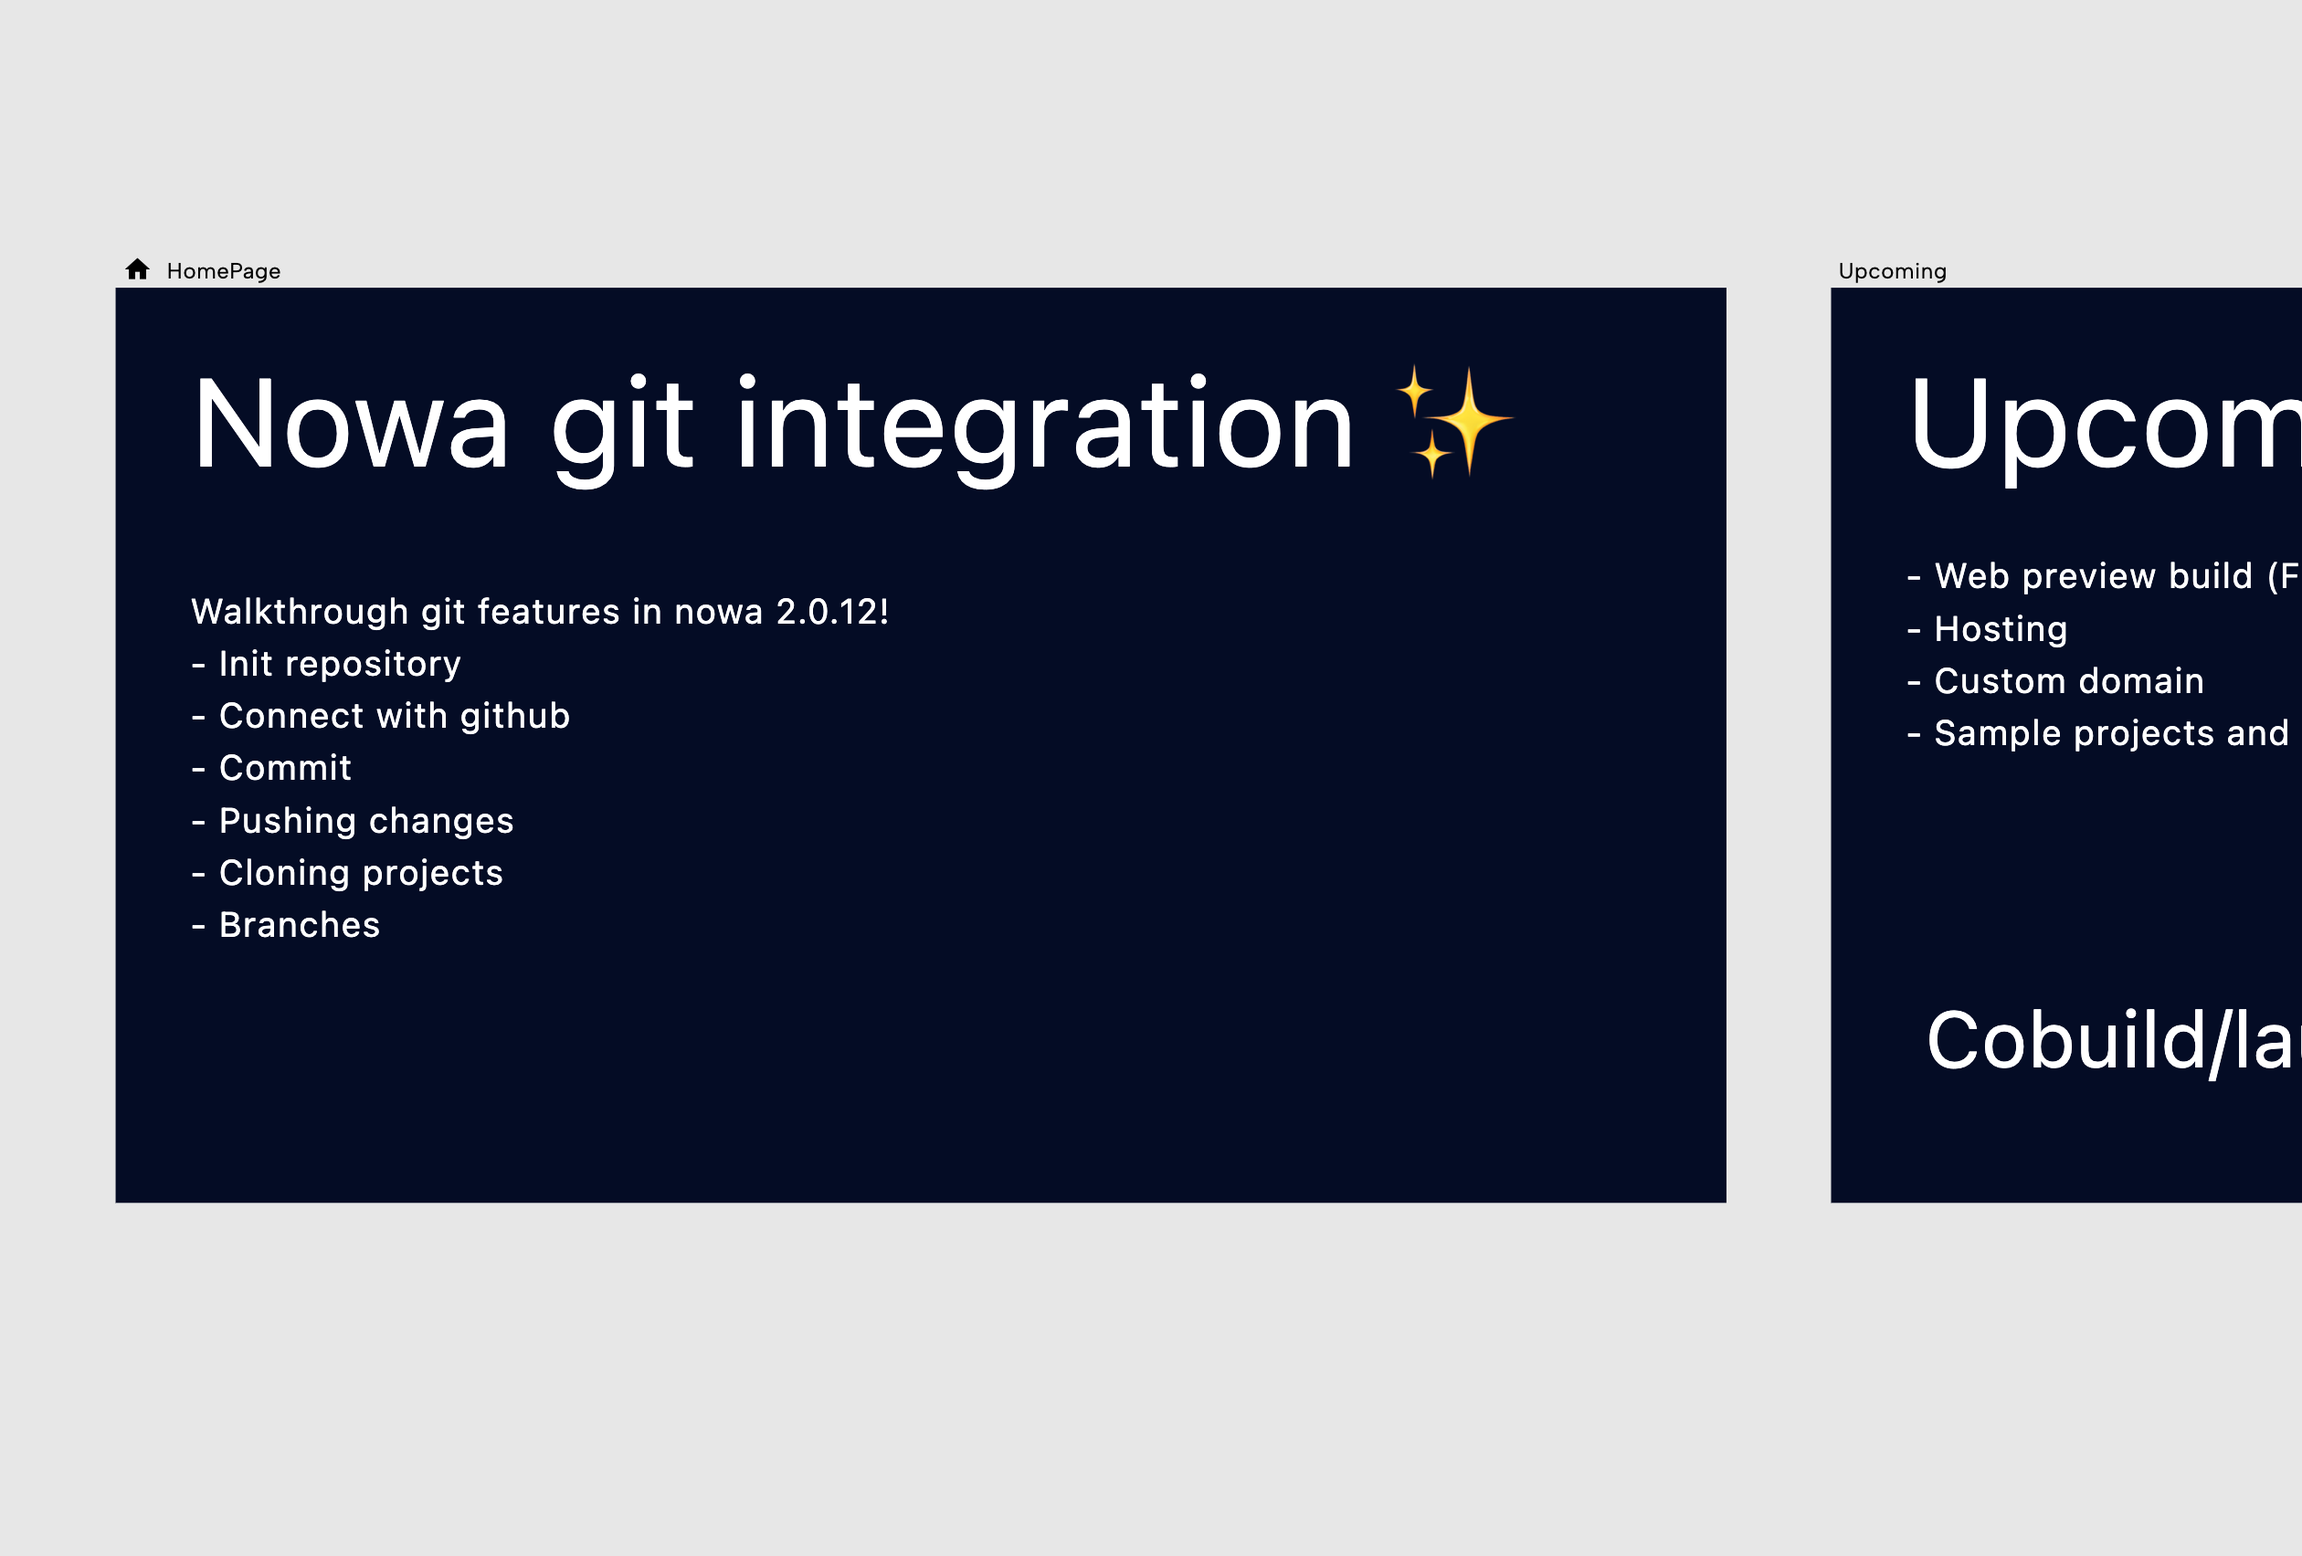
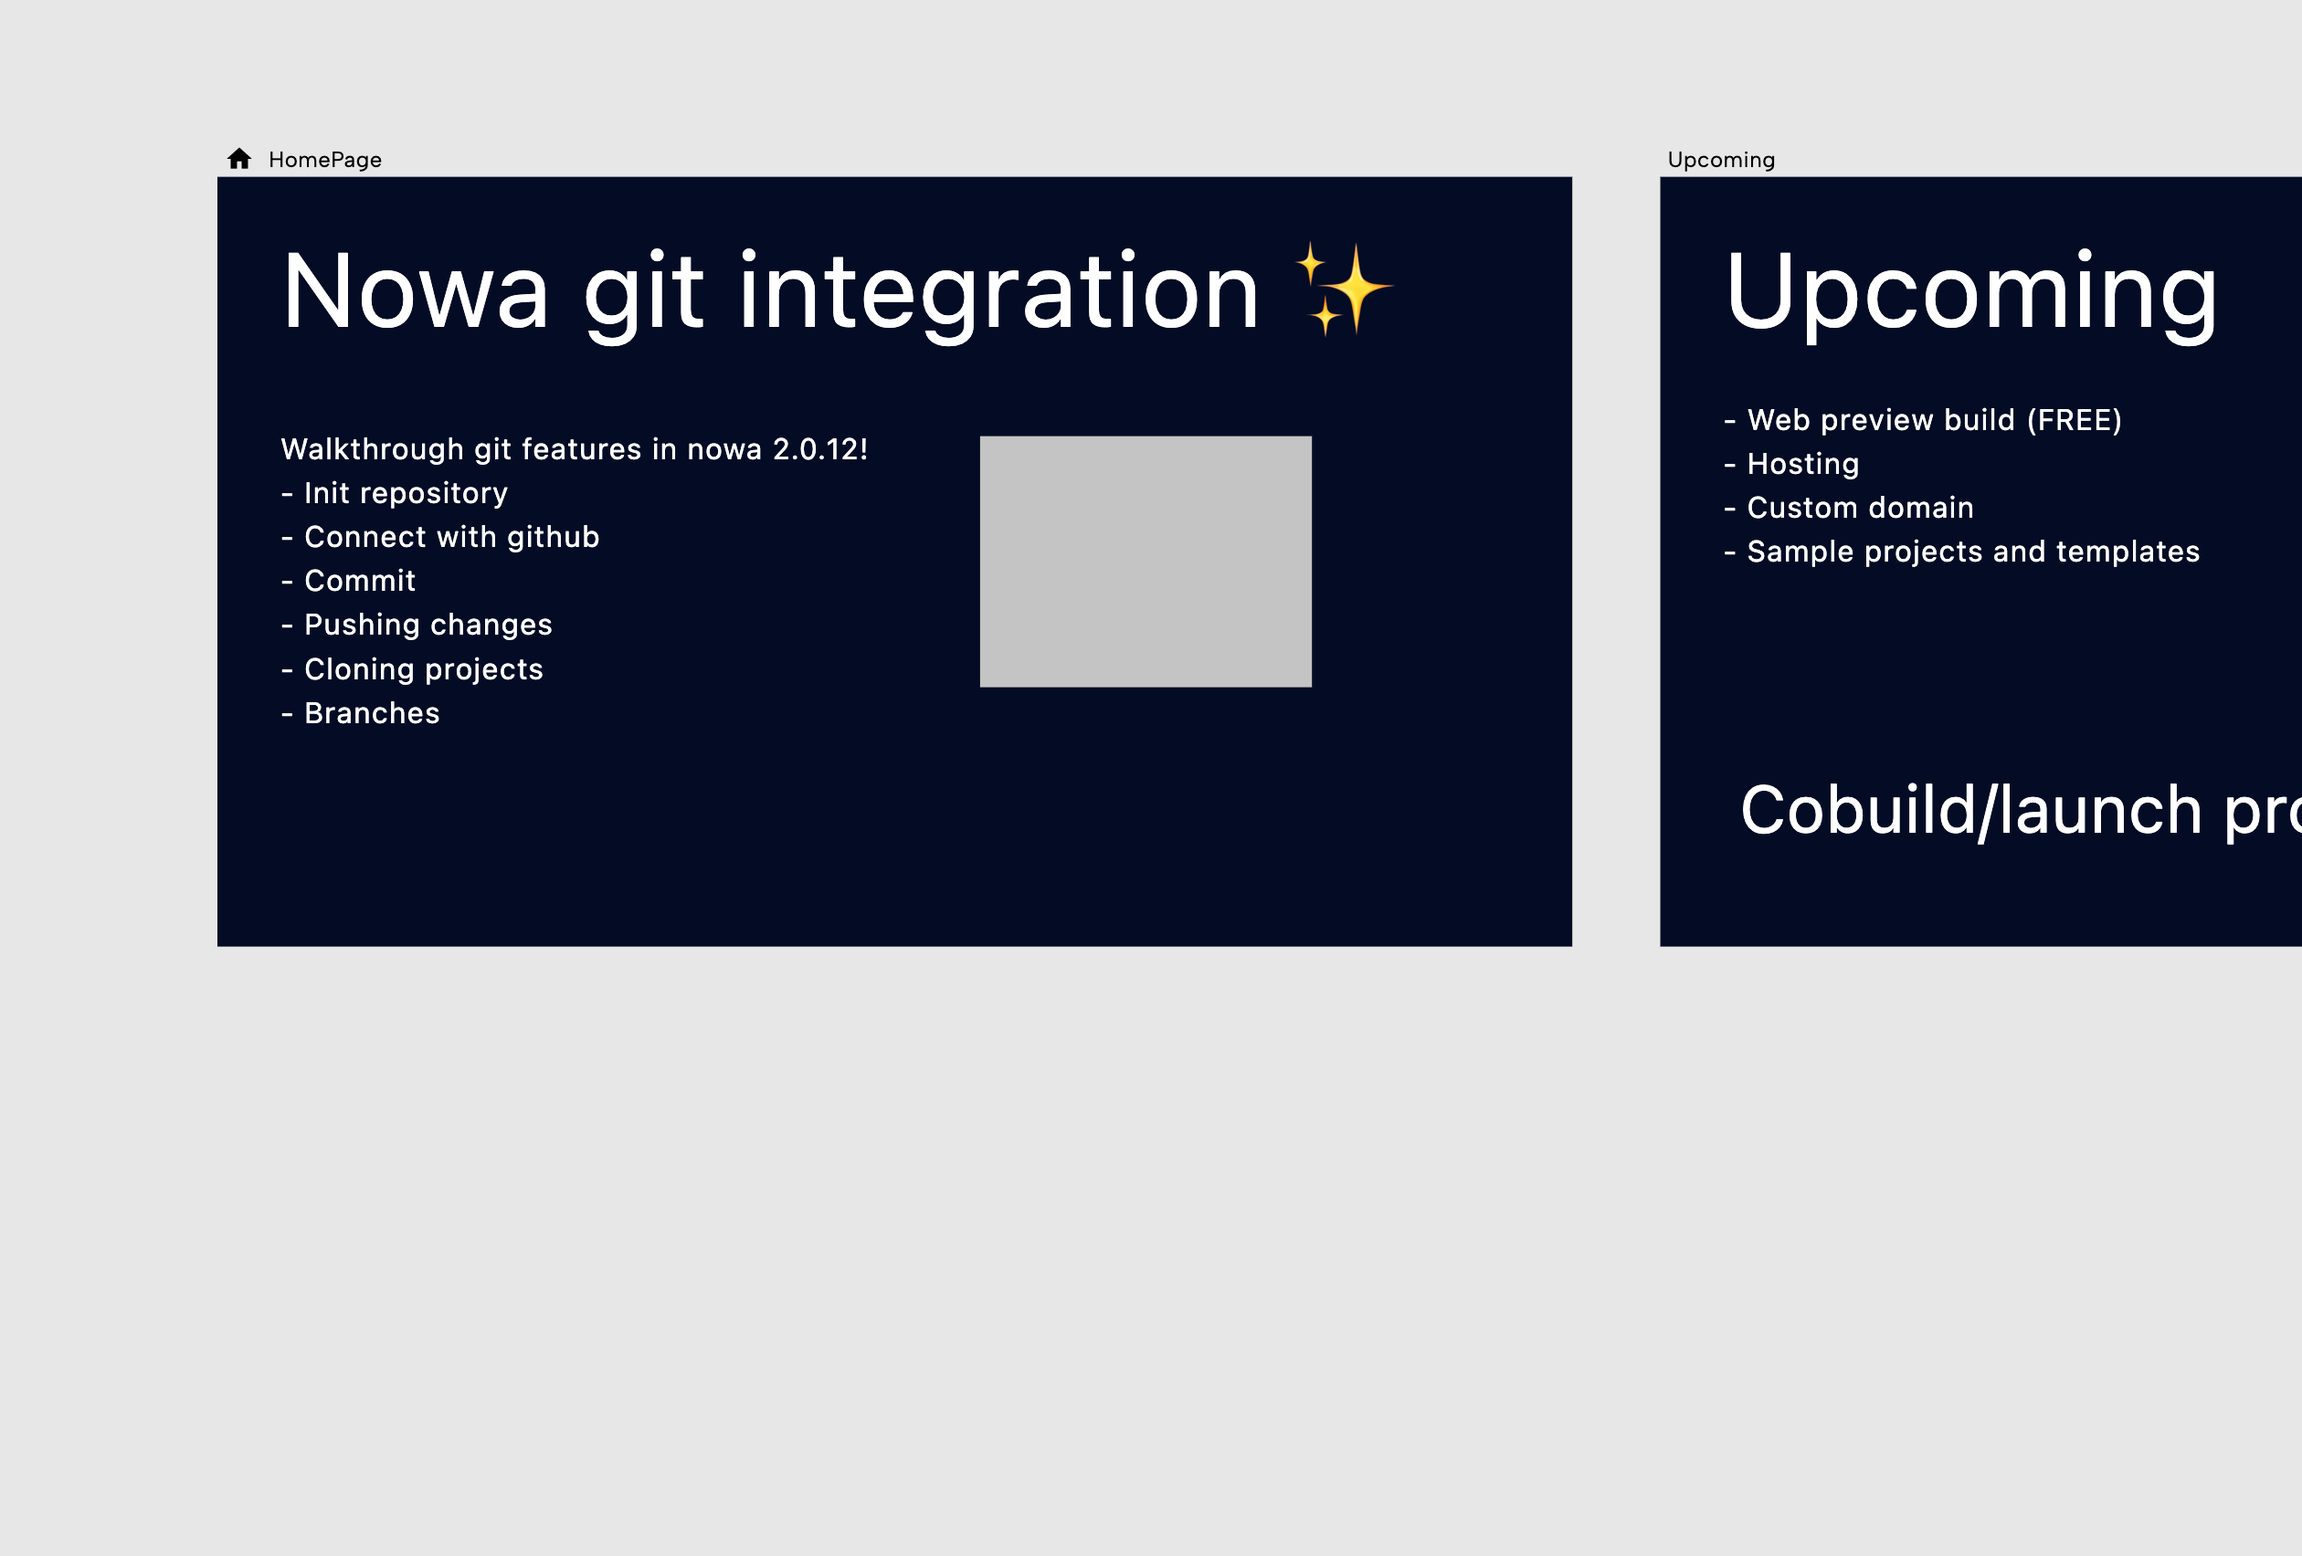
adding a container

diff --git a/lib/pages/home_page.dart b/lib/pages/home_page.dart
@@ -29,6 +29,17 @@ class HomePage extends StatelessWidget {
                 'Walkthrough git features in nowa 2.0.12!\n- Init repository\n- Connect with github\n- Commit\n- Pushing changes\n- Cloning projects\n- Branches',
                 style: Theme.of(context).textTheme.bodyLarge,
               ),
+            ),
+            Positioned(
+              top: 141.5,
+              left: 416.0,
+              width: 181.0,
+              height: 137.0,
+              child: Container(
+                decoration: BoxDecoration(
+                    color: Color(0xffc4c4c4),
+                    borderRadius: BorderRadius.circular(0.0)),
+              ),
             )
           ],
         ),
